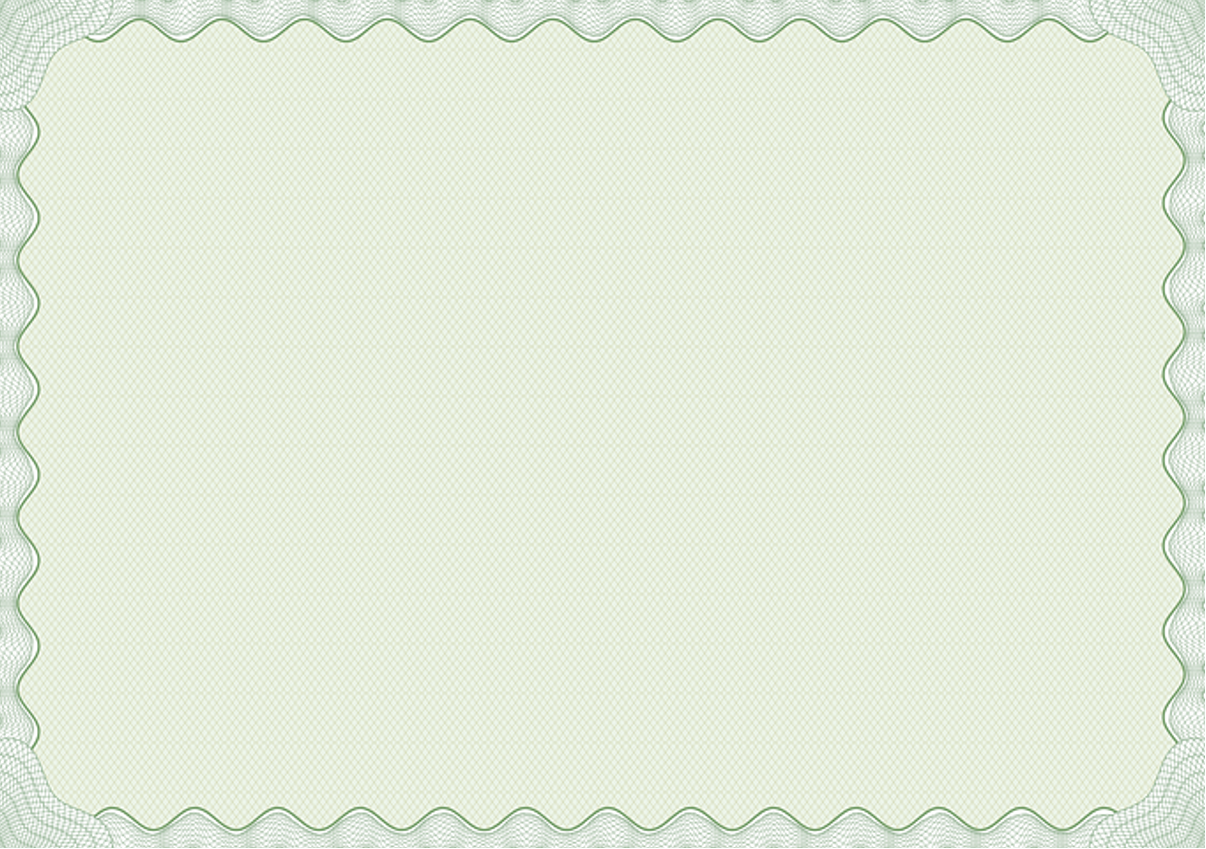
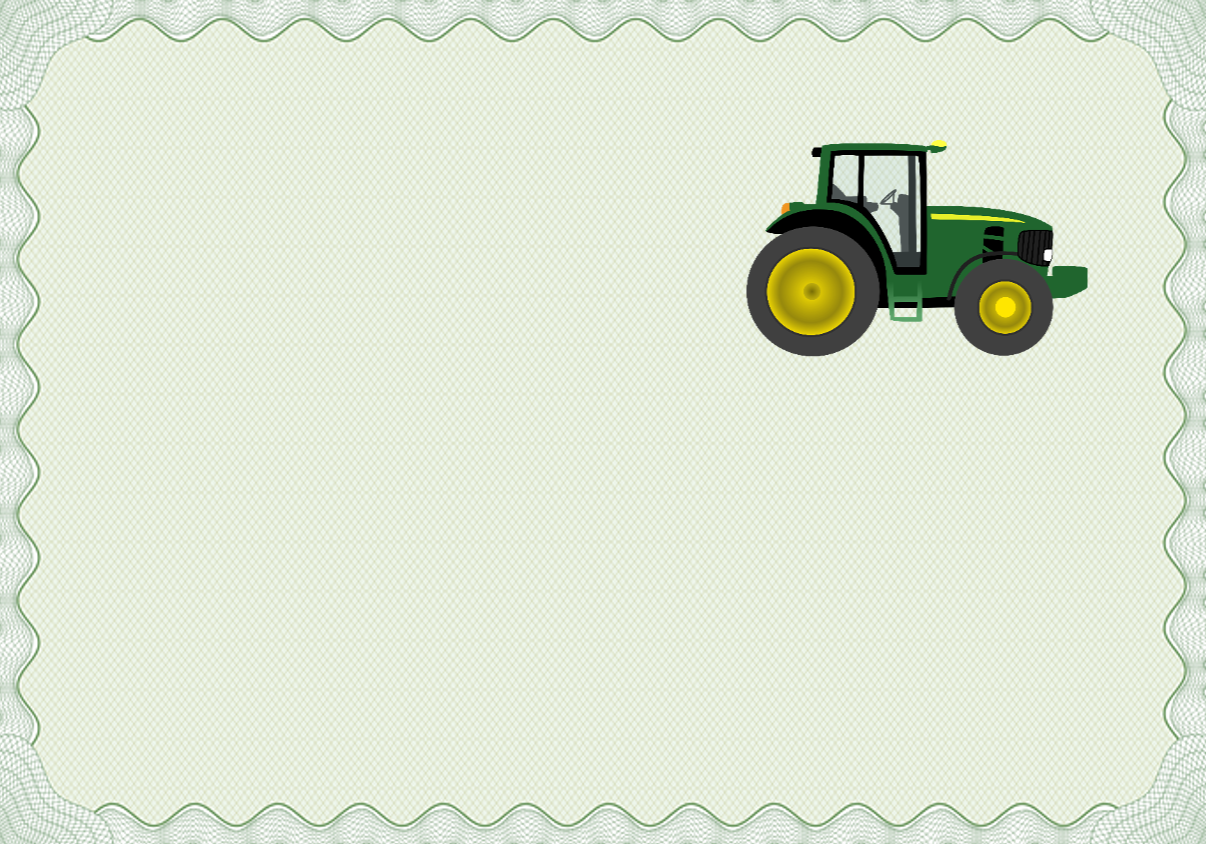
adds tractor to the back of the tractor certs

diff --git a/application.py b/application.py
@@ -265,7 +265,7 @@ def add_student_content_to_merged_table(
         )
 
 
-def create_tractor_certificate(replacement_dict, students, picture_path):
+def create_tractor_certificate(replacement_dict, students, picture_front, picture_back):
     if not students:
         return Document()
 
@@ -284,10 +284,10 @@ def create_tractor_certificate(replacement_dict, students, picture_path):
         doc.render(local_dict)
 
         add_student_content_to_merged_table(
-            merged_table, doc.tables[0], student_index, curr_index, picture_path, picture_height=TRACTOR_CERT_HEIGHT, picture_width=TRACTOR_CERT_WIDTH
+            merged_table, doc.tables[0], student_index, curr_index, picture_front, picture_height=TRACTOR_CERT_HEIGHT, picture_width=TRACTOR_CERT_WIDTH
         )
         add_student_content_to_merged_table(
-            merged_tractor_table, doc.tables[1], student_index, curr_index, picture_path, picture_height=TRACTOR_CERT_HEIGHT, picture_width=TRACTOR_CERT_WIDTH
+            merged_tractor_table, doc.tables[1], student_index, curr_index, picture_back, picture_height=TRACTOR_CERT_HEIGHT, picture_width=TRACTOR_CERT_WIDTH
         )
         curr_index += 1
 
@@ -296,12 +296,15 @@ def create_tractor_certificate(replacement_dict, students, picture_path):
 
 def create_tractor_certs(dict, students):
     blue = create_tractor_certificate(
-        dict, students, "pictures/tractor-background-blue.png"
+        dict, students, "pictures/tractor-background-blue.png", "pictures/tractor-background-blue-with-tractor.png"
     )
     dict_with_profession_replaced = dict.copy()
     dict_with_profession_replaced["student_profession"] = TRACTOR_PROFESSION_WORDING
     green = create_tractor_certificate(
-        dict_with_profession_replaced, students, "pictures/tractor-background-green.png"
+        dict_with_profession_replaced,
+        students,
+        "pictures/tractor-background-green.png",
+        "pictures/tractor-background-green-with-tractor.png",
     )
     return (blue, green)
 

diff --git a/utils.py b/utils.py
@@ -18,7 +18,7 @@ class Student:
 
 def parse_machine_cat_or_role(chosen_profession, value):
     if value == '' or value == None: 
-        return ''
+        return ('', '')
     if chosen_profession.role_required: 
         return ("", value)
     return (value, "")
